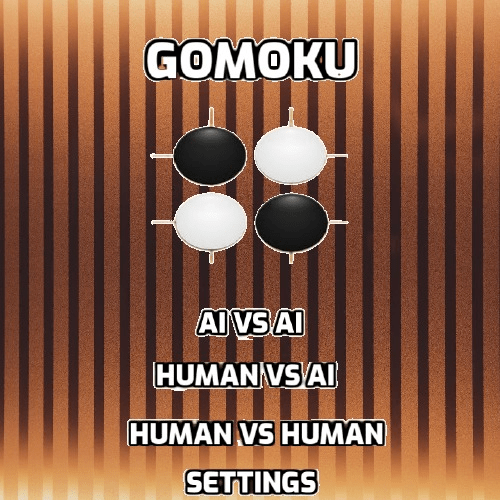
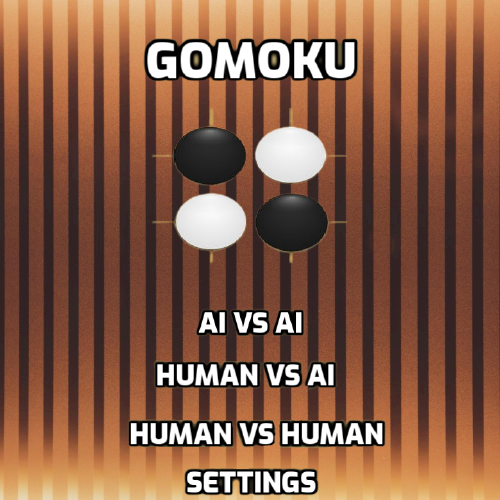
update gui menu

diff --git a/py_game_go.py b/py_game_go.py
@@ -45,7 +45,7 @@ class PyGameGo:
             self.theme_number = 1
             self.go_board = pygame.image.load("ressources/images/goboard-1.png")
             self.go_menu = pygame.image.load("ressources/images/gomenu-1.png")
-            self.go_settings = pygame.image.load("ressources/images/gosettings.png")
+            self.go_settings = pygame.image.load("ressources/images/gosettings-1.png")
             self.go_sound_off = pygame.transform.scale(
                 pygame.image.load("ressources/images/sound-icon/sound_off.png"),
                 self.sound_icon_size,
@@ -96,14 +96,26 @@ class PyGameGo:
                 )
         pygame.display.flip()
 
-    def settings(self):
+    def display_setting_page(self):
         self.display_page(background_page=self.go_settings, return_button=True, sound_status=True)
+        self.print_font(
+            64,
+            "NEXT THEME",
+            200,
+            150,
+            "Black",
+        )
+        pygame.display.flip()
+
+    def settings(self):
+        self.display_setting_page()
         while 1:
+
             for event in pygame.event.get():
                 if event.type == pygame.QUIT:
                     sys.exit()
-
                 if event.type == pygame.MOUSEBUTTONDOWN:
+                    print("event.pos[1] = ", event.pos[1])
                     # Return to menu button
                     if (
                         event.pos[1] >= 0
@@ -112,7 +124,7 @@ class PyGameGo:
                         and event.pos[0] <= self.return_icon_size[1]
                     ):
                         return 0
-                    elif event.pos[1] >= 10 and event.pos[1] <= 500:
+                    elif event.pos[1] >= 125 and event.pos[1] < 205:
                         self.theme_number += 1
                         if self.theme_number > 2:
                             self.theme_number = 1
@@ -125,9 +137,16 @@ class PyGameGo:
                             ),
                             MAIN_WINDOW_SIZE,
                         )
+                        self.go_settings = pygame.transform.scale(
+                            pygame.image.load(
+                                "ressources/images/gosettings-" + str(self.theme_number) + ".png"
+                            ),
+                            MAIN_WINDOW_SIZE,
+                        )
                         self.go_board_resize = pygame.transform.scale(
                             self.go_board, MAIN_WINDOW_SIZE
                         )
+                        self.display_setting_page()
 
                     # click on sound icon
                     elif (
@@ -137,9 +156,7 @@ class PyGameGo:
                         and event.pos[0] <= MAIN_WINDOW_SIZE[0]
                     ):
                         self.update_sound_status(not self.sound_status, self.go_settings)
-                        self.display_page(
-                            background_page=self.go_settings, return_button=True, sound_status=True
-                        )
+                        self.display_setting_page()
 
     def menu(self, go_rules: GoRules):
         self.screen.blit(self.go_menu, self.start_point)
@@ -211,8 +228,8 @@ class PyGameGo:
             + "  previous move: "
             + "Illegal move",
             64,
-            32,
-            "Black",
+            680,
+            "White",
         )
 
     def print_player_move(self, x: int, y: int):
@@ -226,7 +243,7 @@ class PyGameGo:
             + BOARD_NOTATION[0][x]
             + BOARD_NOTATION[1][y],
             64,
-            32,
+            680,
             "Black",
         )
 
